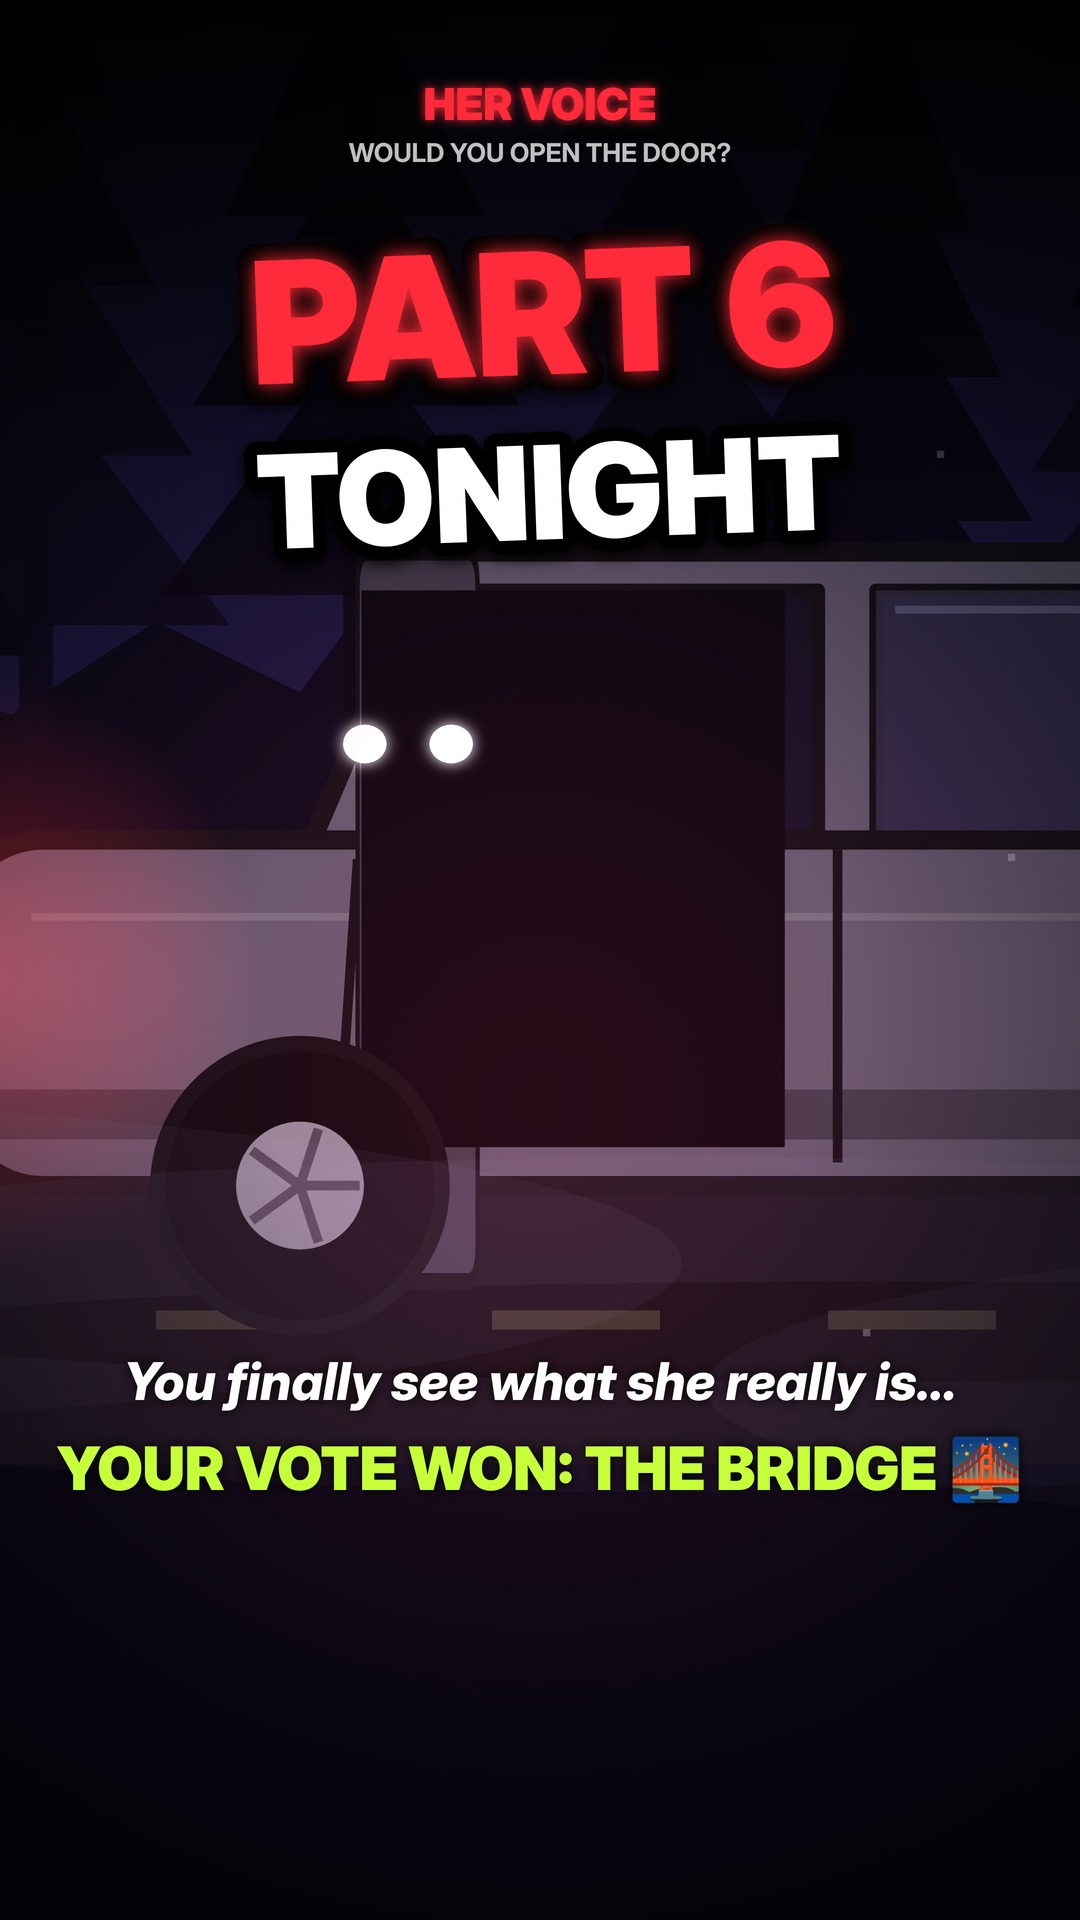
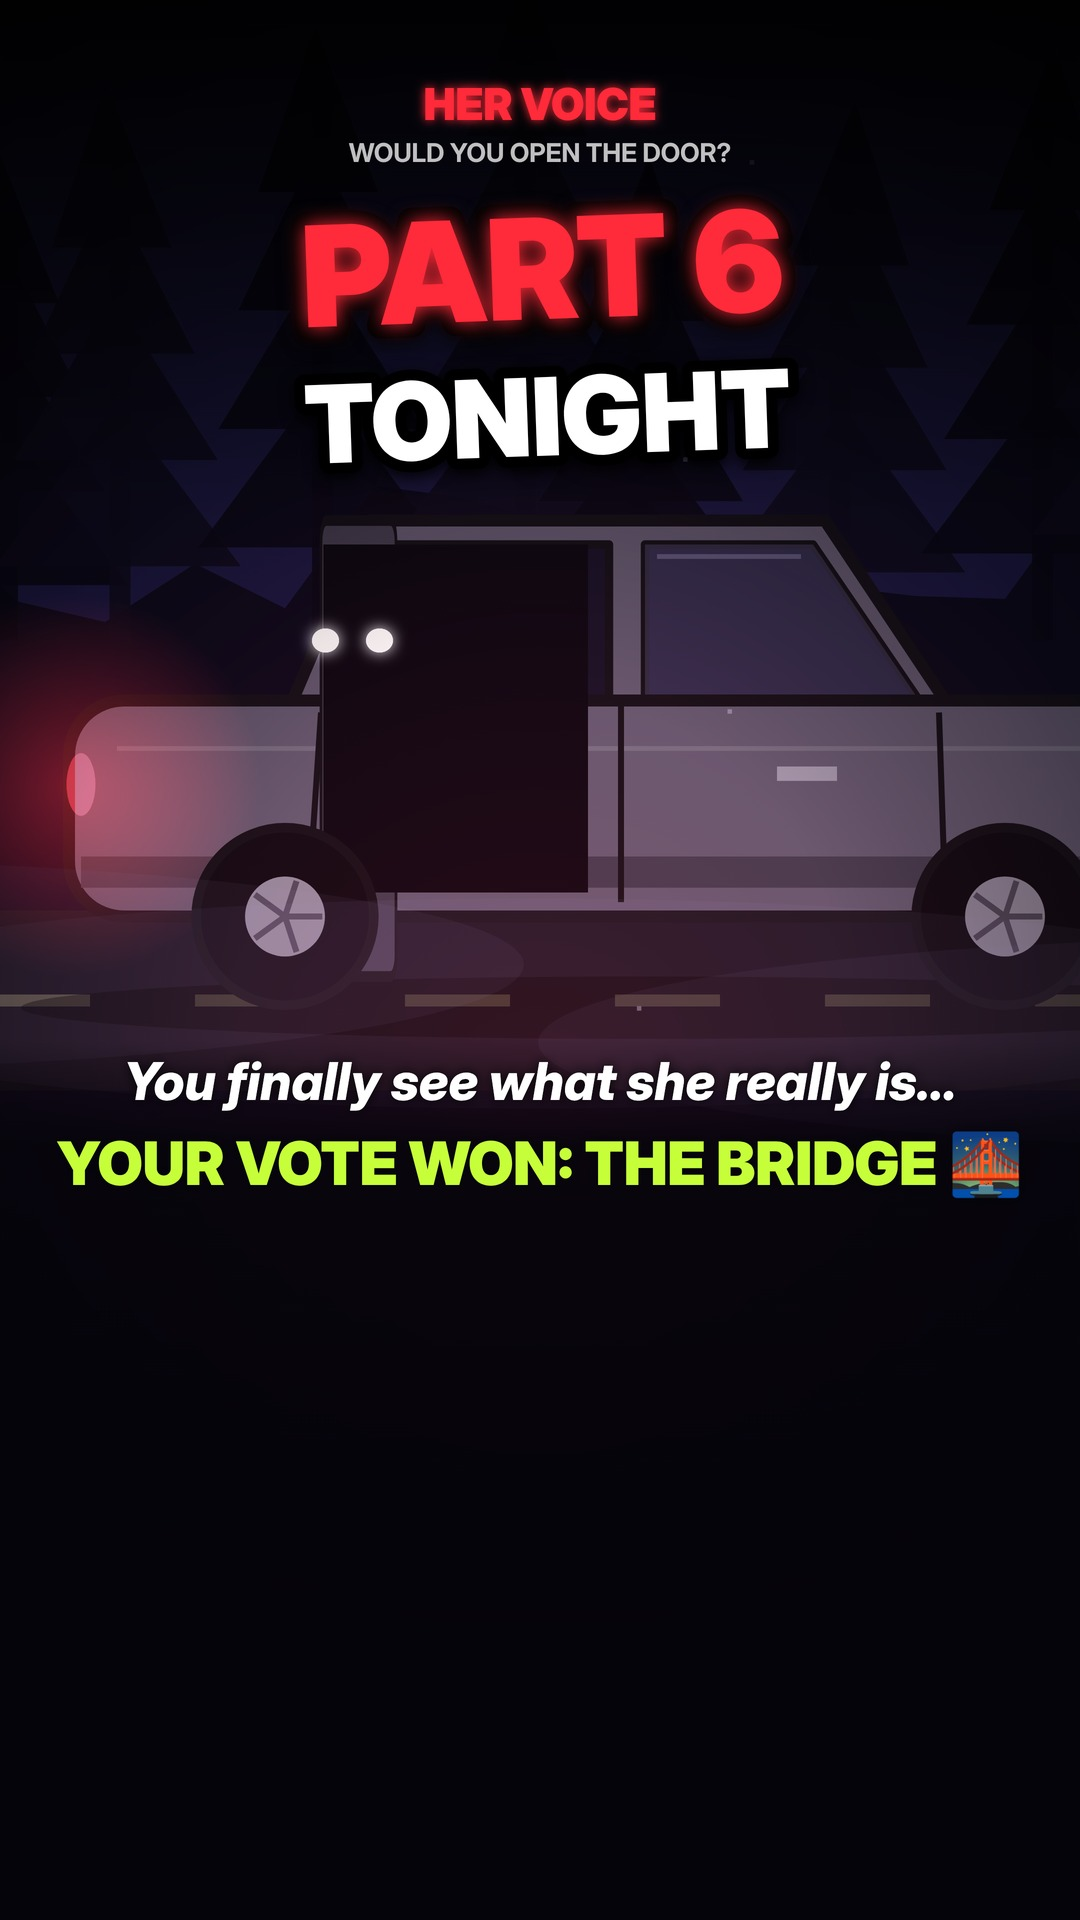
HER VOICE Part 6: story background with room for stickers
Claude-Session: https://claude.ai/code/session_013waGN2ARspf4yShZssZUe5

diff --git a/youtube/horror/it-knows-her-voice/web/thumbs.html b/youtube/horror/it-knows-her-voice/web/thumbs.html
@@ -364,6 +364,14 @@ const THUMBS = {
     hook([['PART 6', '#ff2a3a', 170], ['TONIGHT', '#ffffff', 130]], 230);
     g.save(); g.font = 'italic 800 52px "Inter Display", sans-serif'; g.textAlign = 'center'; g.fillStyle = '#fff'; g.shadowColor = 'rgba(0,0,0,0.95)'; g.shadowBlur = 24; g.fillText('You finally see what she really is...', 540, 1400); g.font = '900 60px "Inter Display", sans-serif'; g.fillStyle = '#c6ff3a'; g.fillText('YOUR VOTE WON: THE BRIDGE 🌉', 540, 1490); g.restore();
     logo(); },
+  story6c() { T = 0.8; g.save(); cam(1.5, -330, 1453); sky(); woods(1240, 0.9); g.fillStyle = '#0b0a1e'; g.fillRect(-1400, 1480, 4000, 900); road(1480);
+    carSide(-260, 1480, 0.8, { win: 0, lights: 1, door: 1 });
+    add(() => { g.shadowColor = '#fff'; g.shadowBlur = 30; g.fillStyle = '#fbfbff'; for (const sx of [-1, 1]) { g.beginPath(); g.ellipse(-455 + sx * 18, 1240, 9, 8, 0, 0, 7); g.fill(); } g.shadowBlur = 0; });
+    fog(1460); g.restore(); grade(540, 1100, '255,30,50', 0.12);
+    hook([['PART 6', '#ff2a3a', 140], ['TONIGHT', '#ffffff', 108]], 200);
+    g.save(); g.font = 'italic 800 52px "Inter Display", sans-serif'; g.textAlign = 'center'; g.fillStyle = '#fff'; g.shadowColor = 'rgba(0,0,0,0.95)'; g.shadowBlur = 24; g.fillText('You finally see what she really is...', 540, 1100); g.font = '900 60px "Inter Display", sans-serif'; g.fillStyle = '#c6ff3a'; g.fillText('YOUR VOTE WON: THE BRIDGE 🌉', 540, 1185); g.restore();
+    g.fillStyle = lin(0, 1040, 0, 1920, [[0, 'rgba(5,4,10,0)'], [0.12, 'rgba(5,4,10,0.85)'], [1, 'rgba(5,4,10,1)']]); g.fillRect(0, 1040, 1080, 880);
+    g.save(); g.font = 'italic 800 52px "Inter Display", sans-serif'; g.textAlign = 'center'; g.fillStyle = '#fff'; g.fillText('You finally see what she really is...', 540, 1100); g.font = '900 60px "Inter Display", sans-serif'; g.fillStyle = '#c6ff3a'; g.fillText('YOUR VOTE WON: THE BRIDGE 🌉', 540, 1185); g.restore(); logo(); },
 };
 window.renderThumb = (n, k = 2) => { cv.width = W * k; cv.height = H * k; g.setTransform(k, 0, 0, k, 0, 0); g.clearRect(0, 0, W, H); THUMBS[n](); return true; };
 document.fonts.load('900 92px "Inter Display"').then(() => { window.ready = true; });
